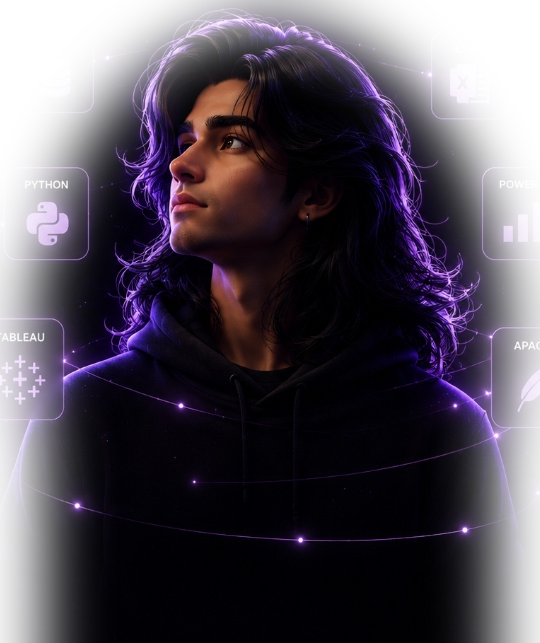
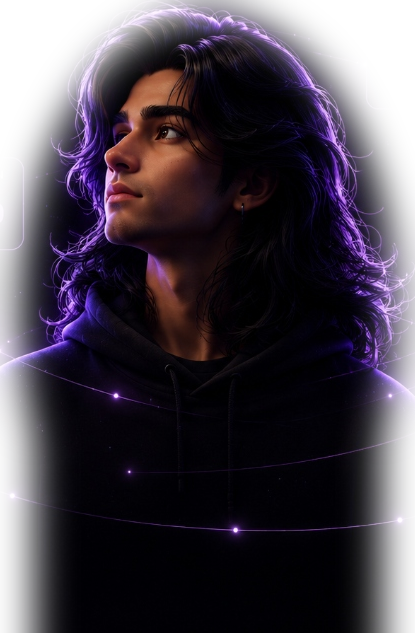
Enlarge 3D character graphic and skill cards on desktop and mobile with expanded orbital geometry and pristine feather mask

diff --git a/static/css/style.css b/static/css/style.css
@@ -310,11 +310,11 @@ a{text-decoration:none;color:inherit}
 /* ── HERO MAIN 2-COLUMN STAGE ─────────────────────────────── */
 .hero-stage{
   display:grid;
-  grid-template-columns:1fr 1.35fr;
+  grid-template-columns:1fr 1.55fr;
   align-items:center;
   width:100%;
   flex:1;
-  max-width:1400px;
+  max-width:1540px;
   margin:0 auto;
   position:relative;
   z-index:10;
@@ -377,16 +377,16 @@ a{text-decoration:none;color:inherit}
 .hero-orbit-stage{
   position:relative;
   width:100%;
-  height:clamp(460px, 62vh, 680px);
+  height:clamp(560px, 78vh, 840px);
   display:flex;
   align-items:center;
   justify-content:center;
-  perspective:1200px;
+  perspective:1300px;
 }
 
 .hero-character-container{
   position:relative;
-  width:clamp(340px, 42vw, 540px);
+  width:clamp(440px, 50vw, 680px);
   height:100%;
   display:flex;
   align-items:center;
@@ -397,7 +397,8 @@ a{text-decoration:none;color:inherit}
   width:100%;
   height:100%;
   object-fit:contain;
-  filter:drop-shadow(0 15px 35px rgba(0,0,0,0.95));
+  transform:scale(1.15);
+  filter:drop-shadow(0 20px 45px rgba(0,0,0,0.98));
   pointer-events:none;
   user-select:none;
   will-change:transform;
@@ -407,10 +408,10 @@ a{text-decoration:none;color:inherit}
   top:45%;
   left:50%;
   transform:translate(-50%, -50%);
-  width:70%;
-  height:70%;
-  background:radial-gradient(circle, rgba(168, 85, 247, 0.24) 0%, rgba(126, 34, 206, 0.08) 50%, transparent 70%);
-  filter:blur(50px);
+  width:75%;
+  height:75%;
+  background:radial-gradient(circle, rgba(168, 85, 247, 0.26) 0%, rgba(126, 34, 206, 0.08) 50%, transparent 70%);
+  filter:blur(60px);
   pointer-events:none;
   z-index:1;
 }
@@ -430,24 +431,24 @@ a{text-decoration:none;color:inherit}
   position:absolute;
   top:0;
   left:0;
-  width:88px;
-  height:96px;
-  margin-left:-44px;
-  margin-top:-48px;
-  background:rgba(18, 8, 30, 0.72);
-  backdrop-filter:blur(14px);
-  -webkit-backdrop-filter:blur(14px);
-  border:1.5px solid rgba(168, 85, 247, 0.38);
-  border-radius:16px;
+  width:106px;
+  height:116px;
+  margin-left:-53px;
+  margin-top:-58px;
+  background:rgba(18, 8, 30, 0.78);
+  backdrop-filter:blur(16px);
+  -webkit-backdrop-filter:blur(16px);
+  border:1.5px solid rgba(168, 85, 247, 0.45);
+  border-radius:18px;
   display:flex;
   flex-direction:column;
   align-items:center;
   justify-content:center;
-  gap:8px;
+  gap:10px;
   box-shadow:
-    0 10px 25px rgba(0,0,0,0.85),
-    0 0 16px rgba(168, 85, 247, 0.22),
-    inset 0 1px 0 rgba(255,255,255,0.15);
+    0 12px 30px rgba(0,0,0,0.9),
+    0 0 20px rgba(168, 85, 247, 0.28),
+    inset 0 1px 0 rgba(255,255,255,0.18);
   cursor:pointer;
   pointer-events:auto;
   transition:border-color .3s ease, box-shadow .3s ease, transform .25s ease;
@@ -456,25 +457,25 @@ a{text-decoration:none;color:inherit}
 .hero-orbit-card:hover{
   border-color:#C084FC;
   box-shadow:
-    0 15px 35px rgba(0,0,0,0.95),
-    0 0 28px rgba(168, 85, 247, 0.5),
-    inset 0 1px 0 rgba(255,255,255,0.3);
+    0 18px 40px rgba(0,0,0,0.98),
+    0 0 32px rgba(168, 85, 247, 0.6),
+    inset 0 1px 0 rgba(255,255,255,0.35);
   transform:scale(1.1) !important;
 }
 
 .orbit-card-label{
-  font-size:0.56rem;
-  font-weight:700;
-  letter-spacing:0.12em;
+  font-size:0.64rem;
+  font-weight:800;
+  letter-spacing:0.14em;
   text-transform:uppercase;
   color:#FFFFFF;
   text-shadow:0 1px 4px rgba(0,0,0,0.8);
 }
 .orbit-card-icon svg{
-  width:32px;
-  height:32px;
-  fill:#D8B4FE;
-  filter:drop-shadow(0 0 8px rgba(168, 85, 247, 0.65));
+  width:38px;
+  height:38px;
+  fill:#E9D5FF;
+  filter:drop-shadow(0 0 10px rgba(168, 85, 247, 0.75));
 }
 
 /* Mobile Bottom Wrap (hidden on desktop) */
@@ -565,27 +566,30 @@ a{text-decoration:none;color:inherit}
 
   /* Mobile Character & Compact Orbit */
   .hero-orbit-stage{
-    height:360px;
+    height:clamp(420px, 58vh, 520px);
   }
   .hero-character-container{
-    width:85vw;
-    max-width:320px;
-    height:340px;
+    width:95vw;
+    max-width:380px;
+    height:100%;
+  }
+  .hero-character-img{
+    transform:scale(1.12);
   }
   .hero-orbit-card{
-    width:72px;
-    height:78px;
-    margin-left:-36px;
-    margin-top:-39px;
-    border-radius:12px;
-    gap:5px;
+    width:86px;
+    height:94px;
+    margin-left:-43px;
+    margin-top:-47px;
+    border-radius:14px;
+    gap:7px;
   }
   .orbit-card-label{
-    font-size:0.5rem;
+    font-size:0.54rem;
   }
   .orbit-card-icon svg{
-    width:24px;
-    height:24px;
+    width:28px;
+    height:28px;
   }
 
   /* Mobile Bottom Wrap */

diff --git a/static/js/main.js b/static/js/main.js
@@ -178,18 +178,18 @@ window.addEventListener('scroll', function() {
 
     var isMob = window.innerWidth < 768;
     var stageRect = stage.getBoundingClientRect();
-    var stageW = stageRect.width || 500;
-    var stageH = stageRect.height || 500;
+    var stageW = stageRect.width || 600;
+    var stageH = stageRect.height || 600;
 
-    var rx = isMob ? Math.min(145, window.innerWidth * 0.40) : Math.min(310, Math.max(250, stageW * 0.48));
-    var ry = isMob ? Math.min(150, stageH * 0.39) : Math.min(230, Math.max(170, stageH * 0.41));
+    var rx = isMob ? Math.min(170, window.innerWidth * 0.44) : Math.min(380, Math.max(290, stageW * 0.52));
+    var ry = isMob ? Math.min(185, stageH * 0.42) : Math.min(280, Math.max(210, stageH * 0.44));
 
     // Parallax character shift
     if (charImg) {
-      var charShiftX = mouseX * 10;
-      var charShiftY = mouseY * 8;
-      var charBreathe = Math.sin(time * 0.8) * 3;
-      charImg.style.transform = 'translate3d(' + charShiftX.toFixed(1) + 'px,' + (charShiftY + charBreathe).toFixed(1) + 'px,0px)';
+      var charShiftX = mouseX * 12;
+      var charShiftY = mouseY * 10;
+      var charBreathe = Math.sin(time * 0.8) * 3.5;
+      charImg.style.transform = 'scale(' + (isMob ? 1.12 : 1.15) + ') translate3d(' + charShiftX.toFixed(1) + 'px,' + (charShiftY + charBreathe).toFixed(1) + 'px,0px)';
     }
 
     // Update 6 Skill Orbit Cards
@@ -199,12 +199,12 @@ window.addEventListener('scroll', function() {
 
       var orbitAngle = time * s.speed + s.phase;
       // Elliptical harmonic wobble + anchor position
-      var wobbleX = Math.cos(orbitAngle) * (isMob ? 8 : 14);
-      var wobbleY = Math.sin(orbitAngle) * (isMob ? 10 : 16);
+      var wobbleX = Math.cos(orbitAngle) * (isMob ? 10 : 16);
+      var wobbleY = Math.sin(orbitAngle) * (isMob ? 12 : 18);
       var wobbleZ = Math.sin(orbitAngle * 0.8);
 
-      var px = s.targetX * rx + wobbleX + mouseX * (s.side === 'left' ? 14 : -14);
-      var py = s.targetY * ry + wobbleY + mouseY * 12;
+      var px = s.targetX * rx + wobbleX + mouseX * (s.side === 'left' ? 16 : -16);
+      var py = s.targetY * ry + wobbleY + mouseY * 14;
       var scale = (0.96 + (wobbleZ + 1) * 0.04).toFixed(3);
       var opacity = (0.88 + (wobbleZ + 1) * 0.06).toFixed(2);
       var tilt = (Math.sin(orbitAngle) * 3).toFixed(1);
@@ -221,13 +221,13 @@ window.addEventListener('scroll', function() {
       // Character center anchor in canvas coordinates
       var charRect = stage.getBoundingClientRect();
       var heroRect = hero.getBoundingClientRect();
-      var centerX = charRect.left - heroRect.left + charRect.width / 2 + mouseX * 8;
-      var centerY = charRect.top - heroRect.top + charRect.height * 0.52 + mouseY * 6;
+      var centerX = charRect.left - heroRect.left + charRect.width / 2 + mouseX * 10;
+      var centerY = charRect.top - heroRect.top + charRect.height * 0.50 + mouseY * 8;
 
       // Draw 3 Elliptical Orbit Rings
       var ringRadii = isMob
-        ? [{ rx: rx * 1.05, ry: ry * 0.45, rot: -0.15 }, { rx: rx * 1.25, ry: ry * 0.72, rot: 0.12 }]
-        : [{ rx: rx * 1.08, ry: ry * 0.52, rot: -0.20 }, { rx: rx * 1.28, ry: ry * 0.78, rot: 0.16 }, { rx: rx * 0.85, ry: ry * 0.95, rot: 0.35 }];
+        ? [{ rx: rx * 1.05, ry: ry * 0.48, rot: -0.15 }, { rx: rx * 1.25, ry: ry * 0.74, rot: 0.12 }]
+        : [{ rx: rx * 1.08, ry: ry * 0.54, rot: -0.20 }, { rx: rx * 1.28, ry: ry * 0.80, rot: 0.16 }, { rx: rx * 0.88, ry: ry * 0.98, rot: 0.35 }];
 
       ringRadii.forEach(function(ring, idx) {
         ctx.save();
